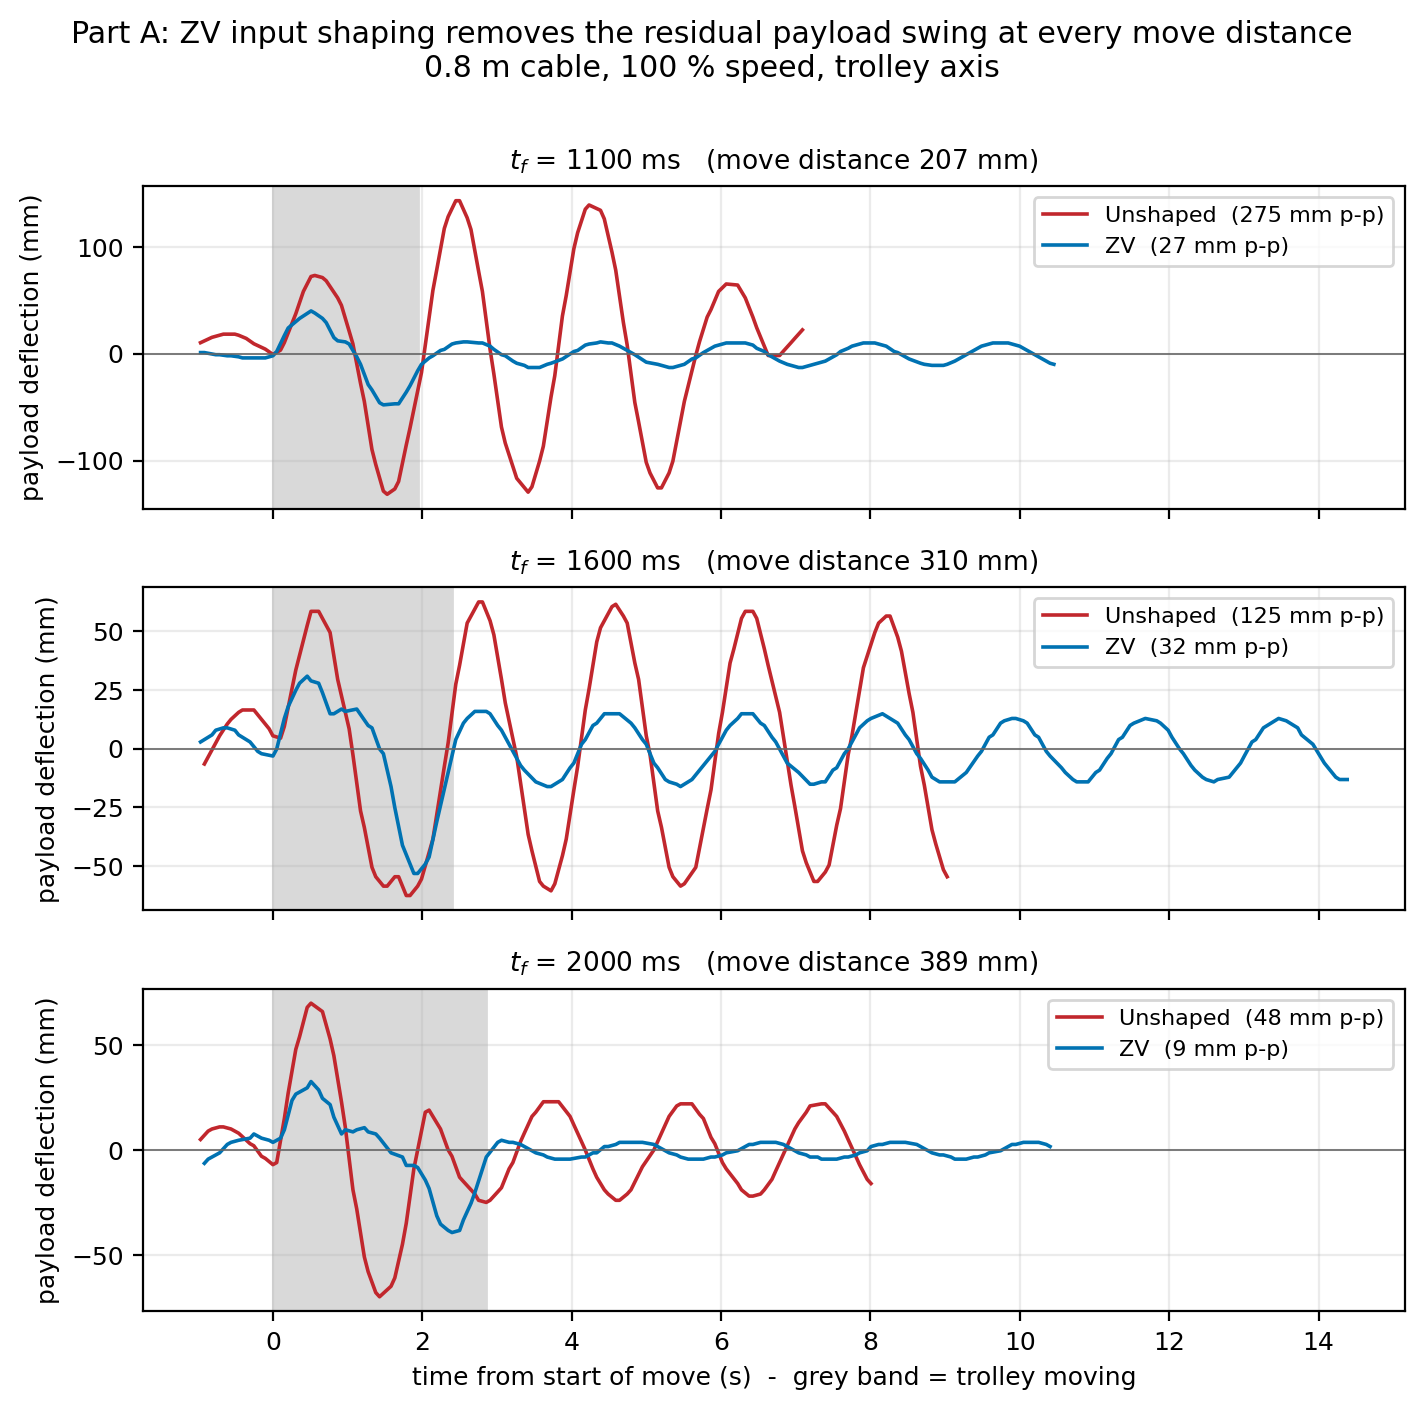
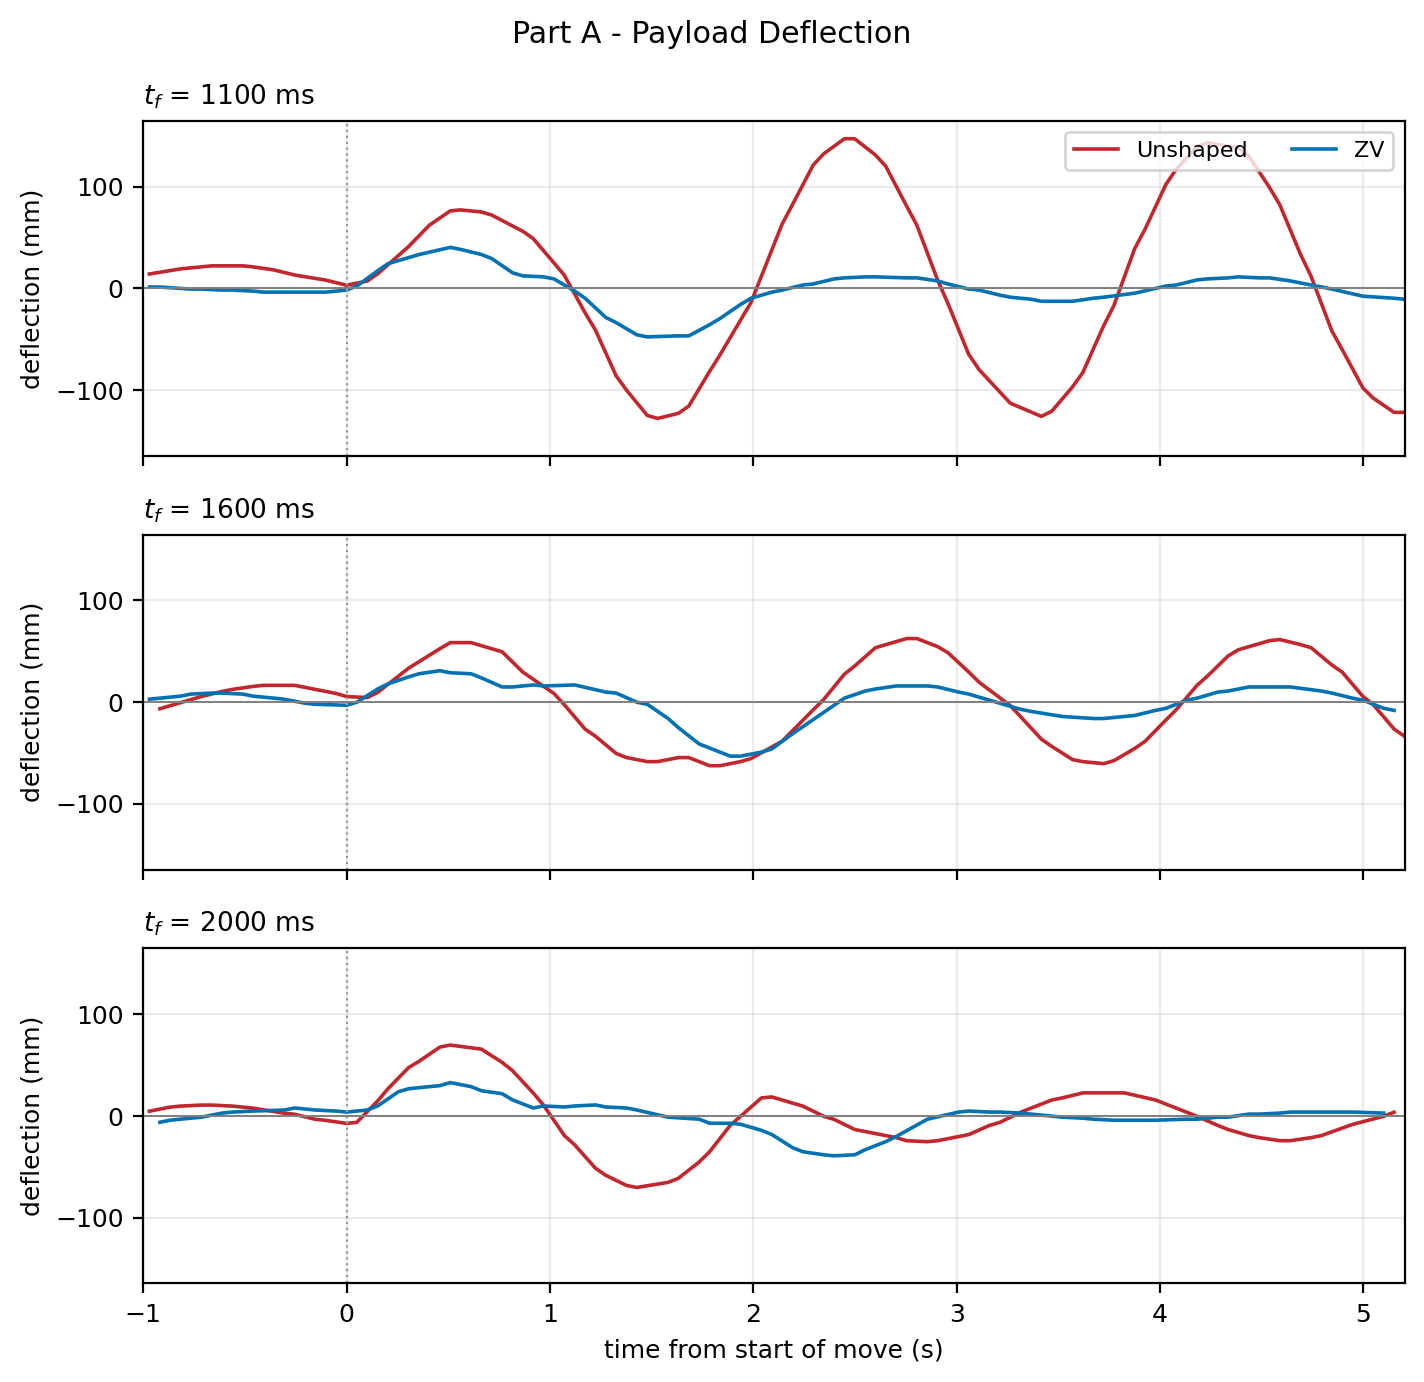
Cut bridge figures to a common span; stop plotting into the return move
bridge_trace ended each curve at max(resid_window_s, 6.0) seconds after
the move. On trials whose clean window is shorter than 6 s that ran past
the moment the operator released the button, so the return move -- which
re-excites the payload -- was plotted as though it were residual
oscillation from the outbound move. The tf = 1100 ms unshaped curve was
the worst case, with roughly its last 2 s being return motion. Traces now
end at clean_end() = the outbound move plus its own clean residual window.

Both bridge time-history figures are then cut to common_end(), the
shortest clean span among the trials they show, so every curve spans the
full axis instead of stopping part-way across. Part A lands at 5.2 s
(set by the tf = 1100 ms unshaped trial) and Part B at 6.5 s (set by the
0.6 m unshaped trial). pick() now selects, per condition, the trial that
stays clean longest, which maximises that common span.

Both figures also now share x and y axes across panels and follow the
report's Figure 1 / Figure 2 styling, so they can be dropped in directly.

diff --git a/Fall 2026/Adv Control/Lab 2/analysis/s5_figures.py b/Fall 2026/Adv Control/Lab 2/analysis/s5_figures.py
@@ -64,23 +64,53 @@ def save(fig, name):
     return p
 
 
+def clean_end(row):
+    """How long after the start of the move this trial stays clean.
+
+    The record is only usable up to the moment the operator released the
+    button and the trolley ran back, because the return move re-excites the
+    payload.  `resid_window_s` already stops short of that, so the outbound
+    move plus that window is the whole trustworthy span.
+    """
+    return (row.move_t1 - row.move_t0) + row.resid_window_s
+
+
 def pick(tr, **kw):
-    """Best trial matching the given conditions: prefers a long residual
-    window so the plotted trace actually shows 4-5 oscillations."""
+    """Best trial matching the given conditions: the one that stays clean
+    longest, so the plotted curve reaches as far right as possible."""
     m = pd.Series(True, index=tr.index)
     for k, v in kw.items():
         m &= tr[k] == v
     sub = tr[m]
     if sub.empty:
         return None
-    return sub.sort_values(["cycles_available", "resid_window_s"],
-                           ascending=False).iloc[0]
+    return sub.assign(_end=sub.apply(clean_end, axis=1)) \
+              .sort_values("_end", ascending=False).iloc[0]
+
+
+def common_end(rows):
+    """Right-hand x limit that every supplied trial can fill.
+
+    Curves that stop part-way across a panel read as missing data, so each
+    bridge figure is cut to the shortest clean span among the trials it shows
+    (here the tf = 1100 ms unshaped trial, whose operator released the button
+    earliest).  Every curve then spans the full axis.
+    """
+    ends = [clean_end(r) for r in rows if r is not None]
+    return float(min(ends)) if ends else np.nan
 
 
 def bridge_trace(row, pad_before=1.0, pad_after=None):
+    """Deflection/velocity/position from `pad_before` before the move starts.
+
+    The trace ENDS at `clean_end(row)` unless `pad_after` is given explicitly.
+    The previous version used max(resid_window_s, 6.0), which on trials whose
+    clean window is shorter than 6 s ran past the release of the button and
+    plotted the return move as though it were residual oscillation.
+    """
     d = L.load_bridge(os.path.join(L.BRIDGE_DIR, row.file))
     t0, t1 = row.move_t0, row.move_t1
-    hi = t1 + (pad_after if pad_after else max(row.resid_window_s, 6.0))
+    hi = t1 + (pad_after if pad_after is not None else row.resid_window_s)
     m = (d["t"] >= t0 - pad_before) & (d["t"] <= hi)
     return d["t"][m] - t0, d["defl"][m], d["vel"][m], d["pos"][m]
 
@@ -113,25 +143,40 @@ def _tower_trace(row, chan, despike=True):
 
 # ---------------------------------------------------------------- Part A ----
 def fig01(tr):
+    """Part A payload deflection, styled to match the report's Figure 1.
+
+    Every curve is cut to `common_end`, the shortest clean span among the
+    trials shown, so no curve stops part-way across the axis.  Panels share
+    both axes: a shared y scale is what makes the move-distance trend legible,
+    since the whole point is that the tf = 1100 ms residual dwarfs the others.
+    """
     tfs = [1100, 1600, 2000]
-    fig, axes = plt.subplots(len(tfs), 1, figsize=(7.2, 7.0), sharex=True)
+    rows = {(tf, sh): pick(tr, part="A", shaper=sh, tf_ms=float(tf))
+            for tf in tfs for sh in ("Unshaped", "ZV")}
+    t_end = common_end(list(rows.values()))
+
+    fig, axes = plt.subplots(len(tfs), 1, figsize=(7.2, 7.0),
+                             sharex=True, sharey=True)
+    ymax = 0.0
     for ax, tf in zip(axes, tfs):
         for sh in ("Unshaped", "ZV"):
-            r = pick(tr, part="A", shaper=sh, tf_ms=float(tf))
+            r = rows[(tf, sh)]
             if r is None:
                 continue
-            t, y, v, _ = bridge_trace(r)
-            ax.plot(t, y - np.mean(y[t > r.move_t1 - r.move_t0]),
-                    color=C[sh], label=f"{sh}  ({r.amp_pp_mm:.0f} mm p-p)")
-            ax.axvspan(0, r.move_t1 - r.move_t0, color="0.85", zorder=0)
-        ax.set_ylabel("payload deflection (mm)")
-        ax.set_title(f"$t_f$ = {tf} ms   (move distance "
-                     f"{tr[(tr.part=='A')&(tr.tf_ms==tf)].move_dist_mm.mean():.0f} mm)")
-        ax.legend(loc="upper right")
-        ax.axhline(0, color="0.4", lw=0.6)
-    axes[-1].set_xlabel("time from start of move (s)  -  grey band = trolley moving")
-    fig.suptitle("Part A: ZV input shaping removes the residual payload swing at every "
-                 "move distance\n0.8 m cable, 100 % speed, trolley axis", y=1.0)
+            t, y, _, _ = bridge_trace(r)
+            keep = t <= t_end
+            y = y - np.mean(y[t > r.move_t1 - r.move_t0])
+            ax.plot(t[keep], y[keep], color=C[sh], label=sh)
+            ymax = max(ymax, float(np.max(np.abs(y[keep]))))
+        ax.axvline(0, color="0.6", lw=0.8, ls=":")
+        ax.axhline(0, color="0.5", lw=0.7)
+        ax.set_ylabel("deflection (mm)")
+        ax.set_title(f"$t_f$ = {tf} ms", loc="left")
+    axes[0].legend(ncol=2, loc="upper right")
+    axes[-1].set_xlim(-1.0, t_end)
+    axes[-1].set_ylim(-1.12 * ymax, 1.12 * ymax)
+    axes[-1].set_xlabel("time from start of move (s)")
+    fig.suptitle("Part A - Payload Deflection")
     fig.tight_layout()
     return save(fig, "fig01_partA_time_histories.png")
 
@@ -175,25 +220,34 @@ def fig02(tr, pred):
 
 # ---------------------------------------------------------------- Part B ----
 def fig03(tr):
+    """Part B payload deflection, styled to match the report's Figure 2."""
     cables = [600, 900, 1200]
-    fig, axes = plt.subplots(len(cables), 1, figsize=(7.2, 7.4), sharex=True)
+    rows = {(cb, sh): pick(tr, part="B", shaper=sh, cable_nom_mm=float(cb))
+            for cb in cables for sh in ("Unshaped", "ZV", "ZVD")}
+    t_end = common_end(list(rows.values()))
+
+    fig, axes = plt.subplots(len(cables), 1, figsize=(7.2, 7.4),
+                             sharex=True, sharey=True)
+    ymax = 0.0
     for ax, cb in zip(axes, cables):
         for sh in ("Unshaped", "ZV", "ZVD"):
-            r = pick(tr, part="B", shaper=sh, cable_nom_mm=float(cb))
+            r = rows[(cb, sh)]
             if r is None:
                 continue
-            t, y, v, _ = bridge_trace(r)
-            ax.plot(t, y - np.mean(y[t > r.move_t1 - r.move_t0]), color=C[sh],
-                    label=f"{sh}  ({r.amp_pp_mm:.0f} mm p-p)")
-        w, Tn = L.pendulum_freq(cb / 1000.0)
-        ax.set_ylabel("payload deflection (mm)")
-        ax.set_title(f"cable = {cb} mm   (T = {Tn:.2f} s, "
-                     f"$\\omega$ = {w:.2f} rad/s)")
-        ax.legend(loc="upper right", ncol=3)
-        ax.axhline(0, color="0.4", lw=0.6)
+            t, y, _, _ = bridge_trace(r)
+            keep = t <= t_end
+            y = y - np.mean(y[t > r.move_t1 - r.move_t0])
+            ax.plot(t[keep], y[keep], color=C[sh], label=sh)
+            ymax = max(ymax, float(np.max(np.abs(y[keep]))))
+        ax.axvline(0, color="0.6", lw=0.8, ls=":")
+        ax.axhline(0, color="0.5", lw=0.7)
+        ax.set_ylabel("deflection (mm)")
+        ax.set_title(f"cable = {cb/1000:.1f} m", loc="left")
+    axes[0].legend(ncol=3, loc="upper right")
+    axes[-1].set_xlim(-1.0, t_end)
+    axes[-1].set_ylim(-1.12 * ymax, 1.12 * ymax)
     axes[-1].set_xlabel("time from start of move (s)")
-    fig.suptitle("Part B: one ZV and one robust shaper across a 2:1 cable-length range\n"
-                 "$t_f$ = 1500 ms, 100 % speed", y=1.0)
+    fig.suptitle("Part B - Payload Deflection")
     fig.tight_layout()
     return save(fig, "fig03_partB_time_histories.png")
 
